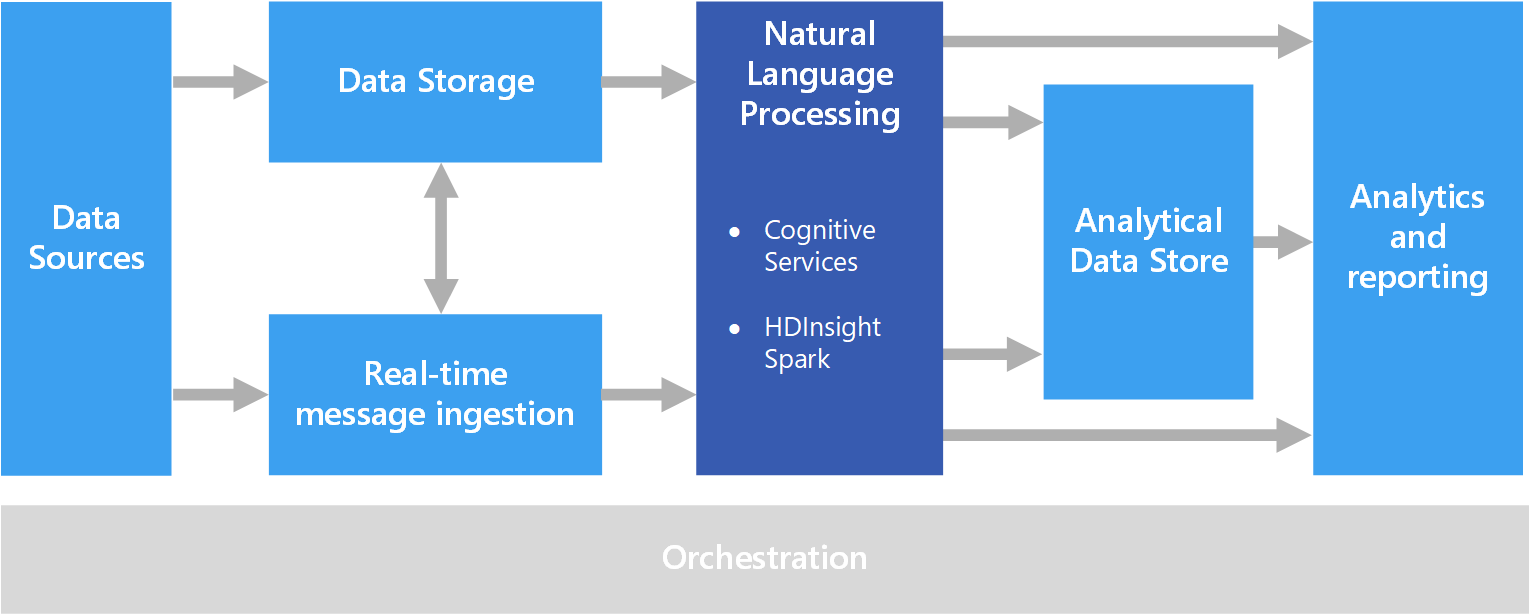
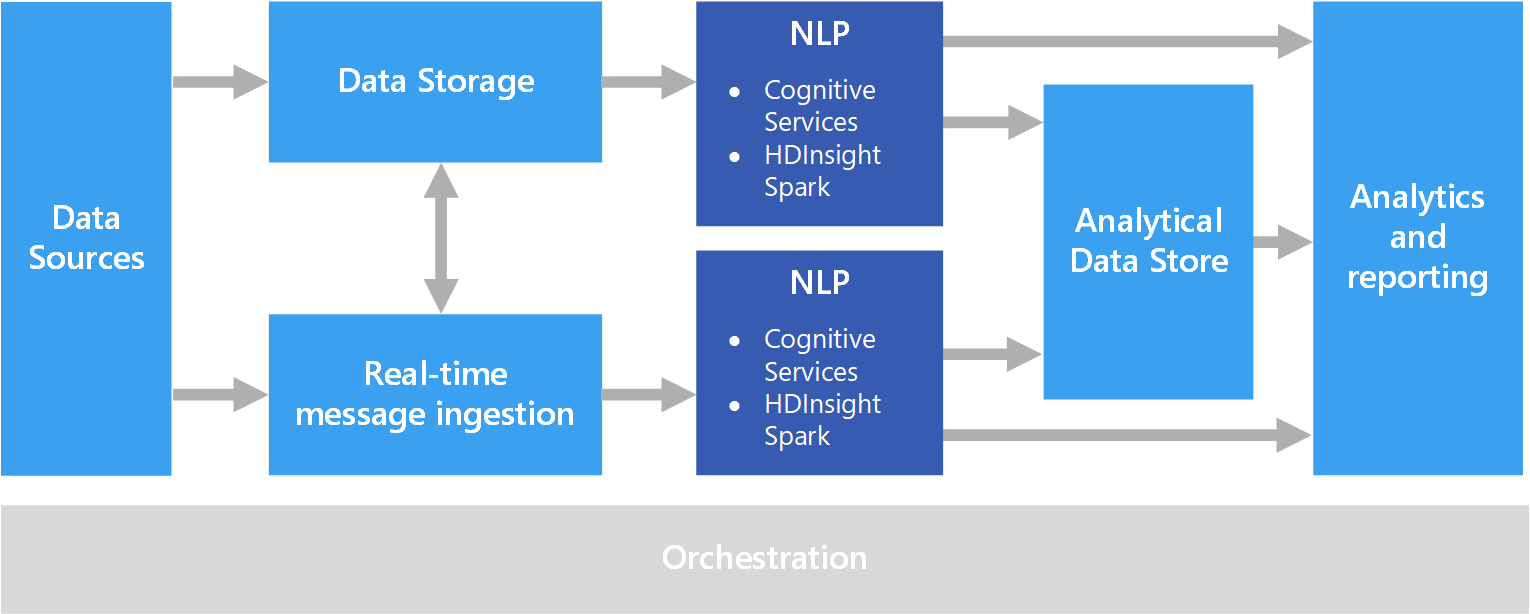
edits

Changed region(s): [[0.4301, 0.0309, 0.6144, 0.4951], [0.4608, 0.5261, 0.5837, 0.7427]]

diff --git a/docs/data/solutions/natural-language-processing.md b/docs/data/solutions/natural-language-processing.md
@@ -30,7 +30,7 @@ When using NLP to extract information and insight from free-form text, the start
 
 ## Architecture
 
-In an NLP solution, free-form text processing is performed against documents containing paragraphs of text. The overall architecture can be a [batch processing](./batch-processing.md) or [real-time stream processing](./real-time-processing.md) architecture. 
+In an NLP solution, free-form text processing is performed against documents containing paragraphs of text. The overall architecture can be a [batch processing](./batch-processing.md) or [real-time stream processing](./real-time-processing.md) architecture, or both paths combined in a [lambda architecture](../concepts/big-data.md#lambda-architecture) or [kappa architecture](../concepts/big-data.md#kappa-architecture).
 
 The actual processing that applies NLP techniques varies based on the desired outcome, but in terms of the pipeline may be applied in a batch or real-time fashion. For example, sentiment analysis can be used against blocks of the text to produce a sentiment score, and can typically done either in batch against data in storage or in real time against smaller data flowing through messaging services. 
 
